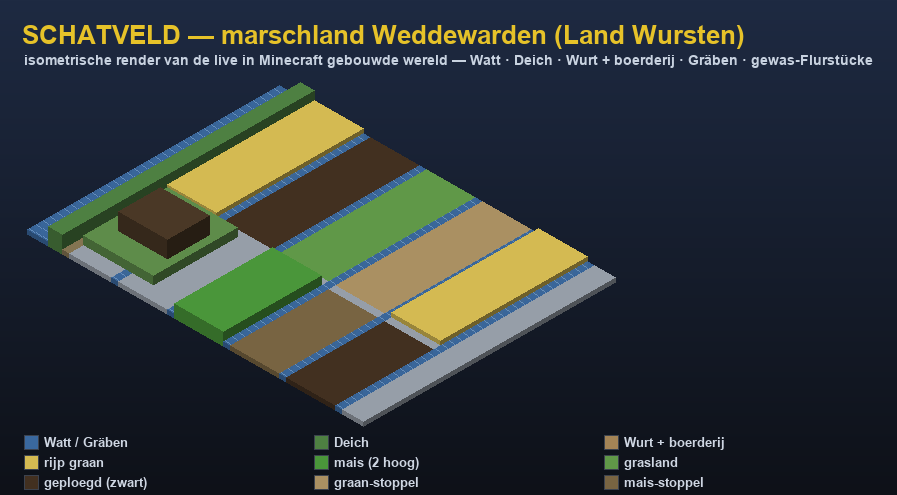
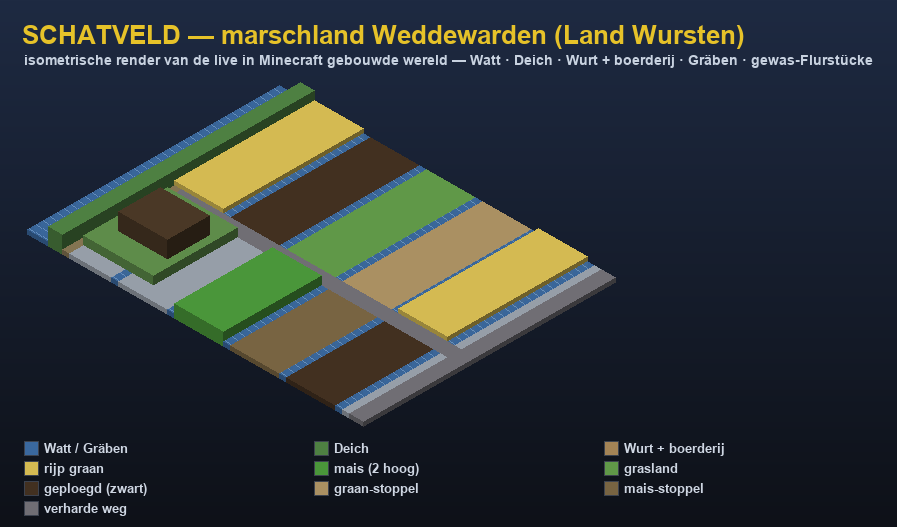
feat: 3D item models, road network, and English localization (translation keys) (#7)
Models (resourcepack/build_models.py): procedural cuboid item-models + solid textures
for metal_detector, shovel, tractor, police_car (+ items/ defs, 1.21.4+ item_model
system). Wired in the datapack: detector/shovel carry their model; Boer gets a Tractor
item, Politie a Police Car item. Preview: data/schatveld_models_preview.png.

Roads (marsh.py): central E-W patrol causeway over the Gräben + east ring road + Wurt
spur (gravel) — foundation for the vehicle rules. Iso-render + legend updated.

Localization: all in-game text moved to {"translate":"schatveld.*"} keys in the datapack
AND the bridge (detector reading, dig result, localized item name, Schatzregal tags,
Raubgrabung, museum first-find). resourcepack/lang/en_us.json = English base; the resource
pack now bundles lang/*.json so the player's Options → Language drives the text. Verified
live: reload OK, all give/translate commands parse, bridge consumes digs.

Changed region(s): [[0.0, 0.0303, 0.9677, 1.0], [0.0, 0.8182, 0.1873, 1.0], [0.6555, 0.8182, 0.8116, 1.0]]

diff --git a/resourcepack/build_models.py b/resourcepack/build_models.py
@@ -1,0 +1,147 @@
+#!/usr/bin/env python3
+"""build_models — procedurele 3D item-modellen (Minecraft-cuboids, à la Blockbench)
+voor de metaaldetector, schep, tractor en politieauto. Genereert per model:
+  assets/schatveld/models/item/<id>.json   (elements + display + textures)
+  assets/schatveld/items/<id>.json          (item-model-definitie, 1.21.4+ systeem)
+en de gedeelde effen-kleur-texturen assets/schatveld/textures/item/col_<naam>.png.
+Plus een preview-strip (data/schatveld_models_preview.png) via een eigen iso-rasterizer.
+Wordt ingebakken door build_resourcepack.py.
+"""
+import io, json, os
+import numpy as np
+from PIL import Image, ImageDraw, ImageFont
+
+HERE = os.path.dirname(os.path.abspath(__file__))
+ROOT = os.path.dirname(HERE)
+
+PALETTE = {
+    "grey":  (150, 152, 162), "dark": (70, 72, 82),   "yellow": (226, 192, 70),
+    "brown": (150, 110, 60),  "green": (80, 140, 55),  "dgreen": (55, 100, 45),
+    "black": (28, 28, 32),    "white": (226, 228, 232),"blue":   (70, 110, 190),
+    "red":   (200, 60, 60),   "steel": (120, 124, 136),
+}
+
+# elk model = lijst (from[x,y,z], to[x,y,z], kleur)  — 0..16 item-ruimte, y omhoog
+MODELS = {
+    "metal_detector": [
+        ((7, 3, 7), (9, 14, 9), "steel"),       # steel
+        ((4, 13, 7), (12, 15, 9), "dark"),      # handvat
+        ((7, 2, 7), (9, 4, 11), "steel"),       # nek naar de spoel
+        ((3, 1, 3), (13, 2, 13), "yellow"),     # zoekspoel (schijf)
+        ((6, 1, 6), (10, 2, 10), "dark"),       # spoel-midden
+    ],
+    "shovel": [
+        ((7, 5, 7), (9, 15, 9), "brown"),       # steel
+        ((7, 4, 7), (9, 6, 9), "steel"),        # bus
+        ((5, 1, 7), (11, 5, 9), "steel"),       # blad
+    ],
+    "tractor": [
+        ((3, 4, 3), (12, 8, 13), "green"),      # motorblok/chassis
+        ((9, 4, 4), (14, 7, 12), "green"),      # neus
+        ((4, 8, 5), (9, 13, 11), "dgreen"),     # cabine
+        ((9, 8, 9), (10, 12, 10), "steel"),     # uitlaat
+        ((0, 1, 8), (4, 8, 14), "black"),       # groot achterwiel L
+        ((12, 1, 8), (16, 8, 14), "black"),     # groot achterwiel R
+        ((2, 1, 3), (4, 5, 6), "black"),        # klein voorwiel L
+        ((12, 1, 3), (14, 5, 6), "black"),      # klein voorwiel R
+    ],
+    "police_car": [
+        ((2, 3, 2), (14, 6, 14), "white"),      # carrosserie
+        ((5, 6, 4), (11, 9, 12), "white"),      # dak/cabine
+        ((4, 6, 4), (5, 9, 12), "blue"),        # voorruit
+        ((11, 6, 4), (12, 9, 12), "blue"),      # achterruit
+        ((6, 9, 6), (8, 10, 10), "red"),        # zwaailicht rood
+        ((8, 9, 6), (10, 10, 10), "blue"),      # zwaailicht blauw
+        ((1, 1, 3), (3, 4, 6), "black"),        # wielen
+        ((1, 1, 10), (3, 4, 13), "black"),
+        ((13, 1, 3), (15, 4, 6), "black"),
+        ((13, 1, 10), (15, 4, 13), "black"),
+    ],
+}
+
+DISPLAY = {
+    "gui": {"rotation": [30, 225, 0], "translation": [0, 0, 0], "scale": [0.88, 0.88, 0.88]},
+    "ground": {"rotation": [0, 0, 0], "translation": [0, 3, 0], "scale": [0.5, 0.5, 0.5]},
+    "fixed": {"rotation": [0, 90, 0], "translation": [0, 0, 0], "scale": [1, 1, 1]},
+    "thirdperson_righthand": {"rotation": [0, 90, 0], "translation": [0, 1.5, 0], "scale": [0.7, 0.7, 0.7]},
+    "firstperson_righthand": {"rotation": [0, 45, 0], "translation": [0, 1, 0], "scale": [0.7, 0.7, 0.7]},
+}
+
+
+def solid_png(rgb):
+    a = np.zeros((16, 16, 4), np.uint8); a[:, :] = (*rgb, 255)
+    b = io.BytesIO(); Image.fromarray(a, "RGBA").save(b, "PNG"); return b.getvalue()
+
+
+def model_json(boxes):
+    cols = sorted({c for _, _, c in boxes})
+    textures = {c: f"schatveld:item/col_{c}" for c in cols}
+    textures["particle"] = f"schatveld:item/col_{cols[0]}"
+    els = []
+    for (f, t, c) in boxes:
+        faces = {d: {"texture": f"#{c}", "uv": [0, 0, 16, 16]}
+                 for d in ("north", "south", "east", "west", "up", "down")}
+        els.append({"from": list(f), "to": list(t), "faces": faces})
+    return {"textures": textures, "elements": els, "display": DISPLAY}
+
+
+# ------- eigen iso-preview van de cuboids -------
+def voxelize(boxes, N=16):
+    grid = {}
+    for (f, t, c) in boxes:
+        for x in range(f[0], t[0]):
+            for y in range(f[1], t[1]):
+                for z in range(f[2], t[2]):
+                    if 0 <= x < N and 0 <= y < N and 0 <= z < N:
+                        grid[(x, y, z)] = PALETTE[c]
+    return grid
+
+
+def render_preview(out):
+    TW, TH, CH = 6, 3, 4
+    names = list(MODELS)
+    cellw = 210
+    W, H = cellw * len(names), 250
+    img = Image.new("RGB", (W, H), (22, 26, 34)); d = ImageDraw.Draw(img, "RGBA")
+    def fnt(s):
+        for p in ("/System/Library/Fonts/Supplemental/Arial Bold.ttf", "/System/Library/Fonts/Helvetica.ttc"):
+            try: return ImageFont.truetype(p, s)
+            except Exception: pass
+        return ImageFont.load_default()
+    def shade(c, fr): return tuple(max(0, min(255, int(v * fr))) for v in c)
+    for i, name in enumerate(names):
+        grid = voxelize(MODELS[name])
+        ox = i * cellw + cellw // 2
+        oy = 150
+        for (x, y, z) in sorted(grid, key=lambda k: (k[0] + k[2], k[1], k[0] + k[2])):
+            rgb = grid[(x, y, z)]
+            cx = ox + (x - z) * TW
+            cy = oy + (x + z) * TH - y * CH
+            d.polygon([(cx - TW, cy), (cx, cy + TH), (cx, cy + TH + CH), (cx - TW, cy + CH)], fill=shade(rgb, .72))
+            d.polygon([(cx + TW, cy), (cx, cy + TH), (cx, cy + TH + CH), (cx + TW, cy + CH)], fill=shade(rgb, .52))
+            d.polygon([(cx, cy - TH), (cx + TW, cy), (cx, cy + TH), (cx - TW, cy)], fill=rgb)
+        d.text((i * cellw + 16, 214), name, font=fnt(15), fill=(226, 214, 120))
+    d.text((14, 12), "Schatveld — 3D item-modellen (metaaldetector · schep · tractor · politieauto)",
+           font=fnt(15), fill=(150, 220, 255))
+    img.save(out); print("preview ->", out, f"({W}x{H})")
+
+
+def write_all():
+    base = os.path.join(HERE, "build", "models_assets")
+    tex = os.path.join(base, "assets/schatveld/textures/item")
+    mdl = os.path.join(base, "assets/schatveld/models/item")
+    itm = os.path.join(base, "assets/schatveld/items")
+    for p in (tex, mdl, itm): os.makedirs(p, exist_ok=True)
+    for name, rgb in PALETTE.items():
+        open(os.path.join(tex, f"col_{name}.png"), "wb").write(solid_png(rgb))
+    for name, boxes in MODELS.items():
+        json.dump(model_json(boxes), open(os.path.join(mdl, f"{name}.json"), "w"), indent=2)
+        json.dump({"model": {"type": "minecraft:model", "model": f"schatveld:item/{name}"}},
+                  open(os.path.join(itm, f"{name}.json"), "w"), indent=2)
+    print(f"modellen -> {base}  ({len(MODELS)} modellen, {len(PALETTE)} kleur-texturen)")
+    return base
+
+
+if __name__ == "__main__":
+    write_all()
+    render_preview(os.path.join(ROOT, "data", "schatveld_models_preview.png"))

diff --git a/datapack/build_datapack.py b/datapack/build_datapack.py
@@ -63,34 +63,43 @@ mcf(f"data/{NS}/function/load.mcfunction", [
     "scoreboard players set #c101 sv_metal 101",
     "# event-queue init (one brain: Python leest hier de dig/scan-events)",
     "data modify storage schatveld:ev queue set value []",
-    "tellraw @a {\"text\":\"[Schatveld] geladen — /function schatveld:menu voor rol & detector\",\"color\":\"gold\"}",
+    "tellraw @a {\"translate\":\"schatveld.loaded\",\"color\":\"gold\"}",
 ])
 
-# ---- menu / rollen ----
+# ---- menu / rollen (alle tekst via translate-keys → taal volgt de client-instelling) ----
 mcf(f"data/{NS}/function/menu.mcfunction", [
-    "tellraw @s [\"\",{\"text\":\"Schatveld Weddewarden\\n\",\"color\":\"gold\",\"bold\":true},"
-    "{\"text\":\"Kies je rol: \",\"color\":\"white\"},"
-    "{\"text\":\"[Archeoloog]\",\"color\":\"aqua\",\"clickEvent\":{\"action\":\"run_command\",\"value\":\"/function schatveld:role/archeoloog\"}},"
+    "tellraw @s [\"\",{\"translate\":\"schatveld.menu.title\",\"color\":\"gold\",\"bold\":true},{\"text\":\"\\n\"},"
+    "{\"translate\":\"schatveld.menu.choose\",\"color\":\"white\"},"
+    "{\"translate\":\"schatveld.role.archeoloog\",\"color\":\"aqua\",\"clickEvent\":{\"action\":\"run_command\",\"value\":\"/function schatveld:role/archeoloog\"}},"
     "{\"text\":\"  \"},"
-    "{\"text\":\"[Boer]\",\"color\":\"green\",\"clickEvent\":{\"action\":\"run_command\",\"value\":\"/function schatveld:role/boer\"}},"
+    "{\"translate\":\"schatveld.role.boer\",\"color\":\"green\",\"clickEvent\":{\"action\":\"run_command\",\"value\":\"/function schatveld:role/boer\"}},"
     "{\"text\":\"  \"},"
-    "{\"text\":\"[Politie]\",\"color\":\"blue\",\"clickEvent\":{\"action\":\"run_command\",\"value\":\"/function schatveld:role/politie\"}}]",
+    "{\"translate\":\"schatveld.role.politie\",\"color\":\"blue\",\"clickEvent\":{\"action\":\"run_command\",\"value\":\"/function schatveld:role/politie\"}}]",
 ])
 for role, code, item in (("archeoloog", 2, None), ("boer", 1, None), ("politie", 3, None)):
     lines = [f"scoreboard players set @s sv_role {code}",
              f"tag @s add sv_{role}",
-             f"tellraw @s {{\"text\":\"Rol: {role}\",\"color\":\"yellow\"}}"]
+             f"tellraw @s {{\"translate\":\"schatveld.role.chosen\",\"with\":[{{\"translate\":\"schatveld.role.{role}\"}}],\"color\":\"yellow\"}}"]
     if role == "archeoloog":
         lines.append("function schatveld:shop/give_detector")
-        lines.append("give @s wooden_shovel[item_name='\"Schep\"',custom_data={sv_shovel:1b}]")
+        lines.append("give @s wooden_shovel[item_name={\"translate\":\"schatveld.item.shovel\"},"
+                     "item_model=\"schatveld:shovel\",custom_data={sv_shovel:1b}]")
+    elif role == "boer":
+        # tractor-voertuigitem (custom 3D-model); rechtsklik = op-/afstappen (voertuigsysteem)
+        lines.append("give @s minecraft:stick[item_model=\"schatveld:tractor\","
+                     "item_name={\"translate\":\"schatveld.item.tractor\"},custom_data={sv_vehicle:\"tractor\"}]")
+    elif role == "politie":
+        lines.append("give @s minecraft:stick[item_model=\"schatveld:police_car\","
+                     "item_name={\"translate\":\"schatveld.item.police_car\"},custom_data={sv_vehicle:\"police_car\"}]")
     mcf(f"data/{NS}/function/role/{role}.mcfunction", lines)
 
-# ---- winkel: geef de metaaldetector (carrot_on_a_stick + custom_data) ----
+# ---- winkel: geef de metaaldetector (carrot_on_a_stick + custom_data + 3D-model) ----
 mcf(f"data/{NS}/function/shop/give_detector.mcfunction", [
-    "give @s carrot_on_a_stick[item_name='{\"text\":\"Metaaldetector\",\"color\":\"aqua\"}',"
+    "give @s carrot_on_a_stick[item_name={\"translate\":\"schatveld.item.detector\",\"color\":\"aqua\"},"
+    "item_model=\"schatveld:metal_detector\","
     "custom_data={sv_detector:1b},"
-    "lore=['{\"text\":\"Rechtsklik grond: toont metaalwaarde 0-100\",\"color\":\"gray\"}']]",
-    "tellraw @s {\"text\":\"Metaaldetector ontvangen — rechtsklik op grond om te meten.\",\"color\":\"green\"}",
+    "lore=[{\"translate\":\"schatveld.item.detector.lore\",\"color\":\"gray\"}]]",
+    "tellraw @s {\"translate\":\"schatveld.detector.received\",\"color\":\"green\"}",
 ])
 
 # ---- metaalwaarde berekenen voor de speler-positie (deterministische hash) ----

diff --git a/pybrain/mc_bridge.py b/pybrain/mc_bridge.py
@@ -33,17 +33,27 @@ def parse_queue(snbt: str):
     return events
 
 
-def _mc_give(rc, x, y, z, mc_item, count, msg, color="green", special=False):
-    # geef aan de dichtstbijzijnde speler bij de graaflocatie + juice (deeltjes/geluid/actionbar)
+def _dig_feedback(rc, x, y, z, find, res):
+    """Geef de vondst + juice (deeltjes/geluid/actionbar), volledig via translate-keys
+    zodat de tekst de client-taal volgt (Opties → Taal)."""
     at = f"execute positioned {x:.2f} {y:.2f} {z:.2f} run"
-    rc.command(f"{at} give @p[distance=..6] {mc_item} {count}")
-    # aarde-explosie + graafgeluid; bijzondere vondst = extra klank
+    name = f'{{"translate":"schatveld.find.{find["id"]}"}}'
+    # item met gelokaliseerde naam
+    rc.command(f'{at} give @p[distance=..6] {find["mc"]}[minecraft:custom_name={name}] 1')
     rc.command(f'{at} particle minecraft:block{{block_state:{{Name:"minecraft:dirt"}}}} '
                f"{x:.2f} {y+0.5:.2f} {z:.2f} 0.3 0.3 0.3 0.1 30")
     rc.command(f"{at} playsound minecraft:block.gravel.break block @p[distance=..8] {x:.2f} {y:.2f} {z:.2f} 1 1")
-    if special:
+    if res["schatzregal"] or res.get("firstFind"):
         rc.command(f"{at} playsound minecraft:entity.player.levelup block @p[distance=..8] {x:.2f} {y:.2f} {z:.2f} 1 1.4")
-    rc.command(f'{at} title @p[distance=..8] actionbar {{"text":"{msg}","color":"{color}"}}')
+    color = "gold" if res["schatzregal"] else "green"
+    parts = [f'{{"translate":"schatveld.dig.found","with":["{res["metal"]}",{name},"{res["payout"]}"],"color":"{color}"}}']
+    if res.get("confiscated"):
+        parts.append('{"text":"  "},{"translate":"schatveld.schatzregal.confiscated","color":"red"}')
+    elif res["schatzregal"]:
+        parts.append('{"text":"  "},{"translate":"schatveld.schatzregal.state","color":"gold"}')
+    if res.get("illegal"):
+        parts.append('{"text":"  "},{"translate":"schatveld.raubgrabung","color":"red"}')
+    rc.command(f'{at} title @p[distance=..8] actionbar ["",{",".join(parts)}]')
 
 
 def handle_event(brain, rc, kind, x, y, z):
@@ -52,29 +62,20 @@ def handle_event(brain, rc, kind, x, y, z):
     if kind == "scan":
         col_color = "dark_gray" if v < 10 else ("gold" if v >= 70 else "yellow")
         rc.command(f"execute positioned {x:.2f} {y:.2f} {z:.2f} run "
-                   f'tellraw @p[distance=..8] ["",{{"text":"Detector (Python-brain): ","color":"aqua"}},'
-                   f'{{"text":"{v}","color":"{col_color}","bold":true}},{{"text":"/100","color":"gray"}}]')
+                   f'tellraw @p[distance=..8] {{"translate":"schatveld.detector.reading",'
+                   f'"with":[{{"text":"{v}","color":"{col_color}","bold":true}}],"color":"aqua"}}')
         return ("scan", v, None)
     # dig: laat de Brain de vondst bepalen (zelfde regels als Roblox)
     brain._p(MC_USER)["tools"]["Schep"] = True
     brain._p(MC_USER)["permit"] = True
     res = brain.dig(MC_USER, col, row)
     find = res["find"]
-    label = find["name"].replace('"', "'")
-    if res.get("confiscated"):
-        tag = " [Schatzregal -> beschlagnahmt]"
-    elif res["schatzregal"]:
-        tag = " [Schatzregal -> Land Bremen]"
-    else:
-        tag = ""
-    special = res["schatzregal"] or res.get("firstFind")
-    _mc_give(rc, x, y, z, find["mc"], 1,
-             f"metaal {res['metal']} -> {label} (EUR {res['payout']}){tag}",
-             "gold" if res["schatzregal"] else "green", special=special)
+    _dig_feedback(rc, x, y, z, find, res)
     if res.get("firstFind"):
         rc.command(f'execute positioned {x:.2f} {y:.2f} {z:.2f} run tellraw @p[distance=..8] '
-                   f'["",{{"text":"Neu im Landesmuseum: ","color":"gold","bold":true}},'
-                   f'{{"text":"{label} ({res["museum"]}/{res["museumTotal"]})","color":"yellow"}}]')
+                   f'{{"translate":"schatveld.museum.new","with":['
+                   f'{{"translate":"schatveld.find.{find["id"]}"}},"{res["museum"]}","{res["museumTotal"]}"],'
+                   f'"color":"gold"}}')
     return ("dig", v, find["name"])
 
 

diff --git a/pybrain/marsh.py b/pybrain/marsh.py
@@ -21,6 +21,7 @@ BLOCKS = {
     "ploughed":  ("minecraft:podzol",       (66, 48, 32)),    # vers zwart-geploegd
     "pasture":   ("minecraft:grass_block",  (96, 152, 72)),   # groen grasland/weide
     "path":     ("minecraft:dirt_path",   (132, 116, 82)),
+    "road":     ("minecraft:gravel",       (112, 110, 116)),  # verharde weg (politie + tractor)
     "planks":   ("minecraft:oak_planks",  (164, 132, 86)),
     "log":      ("minecraft:oak_log",     (110, 88, 58)),
     "cobble":   ("minecraft:cobblestone", (122, 122, 126)),
@@ -71,7 +72,7 @@ def build():
     strips = [(5, 11), (13, 19), (21, 27), (29, 35), (37, 43)]
     k = 0
     for i, (x0, x1) in enumerate(strips):
-        for seg, (z0, z1) in enumerate([(0, 20), (22, D - 1)]):
+        for seg, (z0, z1) in enumerate([(0, 19), (22, D - 1)]):   # z20-21 vrij voor de weg
             if x0 <= 15 and z0 >= 22:        # sla de Wurt-zone over
                 continue
             st = states[k % len(states)]; k += 1
@@ -82,8 +83,13 @@ def build():
                 box(x0, z0, x1, z1, BASE + 1, BASE + 2, "maize")   # mais (2 hoog)
             else:                                                   # vlak oppervlak-stadium
                 box(x0, z0, x1, z1, BASE, BASE, st)                # pasture/ploughed/stoppel
-    # 7) een pad langs de Deich
-    box(5, 0, 5, D - 1, BASE, BASE, "path")
+
+    # 7) wegennet: centrale E-W patrouilleweg (causeway over de Gräben) + oostelijke N-Z weg.
+    #    Politie rijdt hierop; de tractor mag de weg af, het veld op.
+    box(5, 20, W - 1, 21, BASE, BASE, "road")     # centrale weg (z20-21)
+    box(46, 0, 47, D - 1, BASE, BASE, "road")     # oostelijke ringweg (x46-47)
+    box(13, 20, 14, 22, BASE, BASE, "road")       # aftakking naar de Wurt
+    box(5, 0, 5, D - 1, BASE, BASE, "path")       # voetpad langs de Deich
 
     return regions, points
 

diff --git a/resourcepack/build_resourcepack.py b/resourcepack/build_resourcepack.py
@@ -158,6 +158,14 @@ def main():
             "description": "Schatveld — vondsten & metaaldetector (Weddewarden)",
         }
     }
+    # 3D item-modellen (metaaldetector/schep/tractor/politieauto) genereren
+    import build_models
+    models_base = build_models.write_all()
+
+    # taalbestanden (en_us = basis; de/fr/ru/... vullen aan → speler kiest in Opties → Taal)
+    lang_dir = os.path.join(HERE, "lang")
+    langs = sorted(f for f in os.listdir(lang_dir) if f.endswith(".json")) if os.path.isdir(lang_dir) else []
+
     with zipfile.ZipFile(out, "w", zipfile.ZIP_DEFLATED) as z:
         z.writestr("pack.mcmeta", json.dumps(mcmeta, indent=2))
         b = io.BytesIO(); Image.fromarray(pack_icon(), "RGBA").save(b, "PNG")
@@ -166,7 +174,17 @@ def main():
             b = io.BytesIO()
             Image.fromarray(fn(), "RGBA").save(b, "PNG")
             z.writestr(f"assets/minecraft/textures/item/{item}.png", b.getvalue())
-    print(f"resource pack -> {out}  ({len(TEX)} vondst-texturen + icoon)")
+        # modellen + items + effen-kleur-texturen inbakken
+        for root, _dirs, files in os.walk(models_base):
+            for fn in files:
+                full = os.path.join(root, fn)
+                z.write(full, os.path.relpath(full, models_base))
+        # lang-bestanden
+        for lf in langs:
+            with open(os.path.join(lang_dir, lf), encoding="utf-8") as fh:
+                z.writestr(f"assets/schatveld/lang/{lf}", fh.read())
+    print(f"resource pack -> {out}  ({len(TEX)} vondst-texturen, "
+          f"{len(build_models.MODELS)} 3D-modellen, {len(langs)} talen)")
     return out
 
 

diff --git a/data/render_marsh_iso.py b/data/render_marsh_iso.py
@@ -50,7 +50,7 @@ def render():
     PAD_T = 78
     text_w = max(int(fnt(26).getlength(TITLE)), int(fnt(14).getlength(SUB))) + 48
     W = max(int(maxx - minx) + 40, text_w)
-    H = int(maxy - miny) + PAD_T + 60
+    H = int(maxy - miny) + PAD_T + 92
     ox = -minx + 20
     oy = -miny + PAD_T
 
@@ -98,8 +98,8 @@ def render():
     leg = [("Watt / Gräben", "water"), ("Deich", "deich"), ("Wurt + boerderij", "planks"),
            ("rijp graan", "grain"), ("mais (2 hoog)", "maize"), ("grasland", "pasture"),
            ("geploegd (zwart)", "ploughed"), ("graan-stoppel", "grain_stub"),
-           ("mais-stoppel", "maize_stub")]
-    lx, ly = 24, H - 60
+           ("mais-stoppel", "maize_stub"), ("verharde weg", "road")]
+    lx, ly = 24, H - 86
     for i, (label, key) in enumerate(leg):
         col = marsh.BLOCKS[key][1]
         bx = lx + (i % 3) * 290
